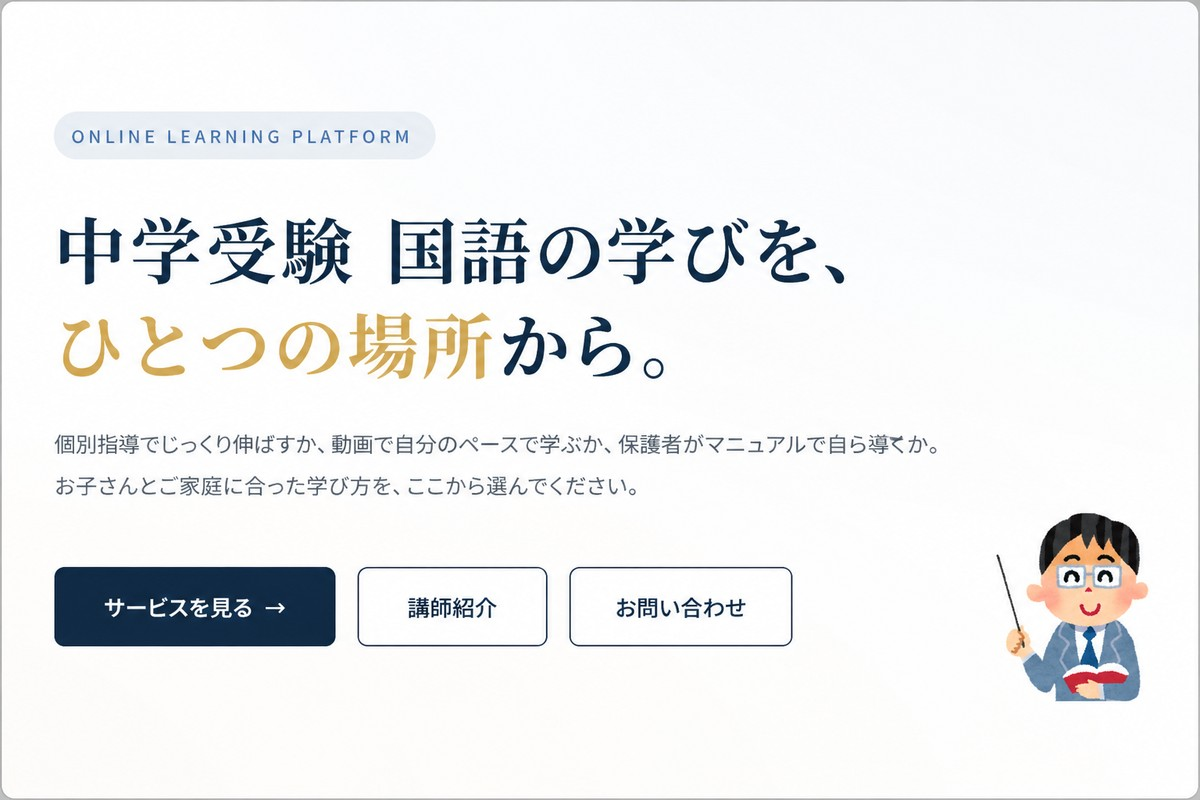
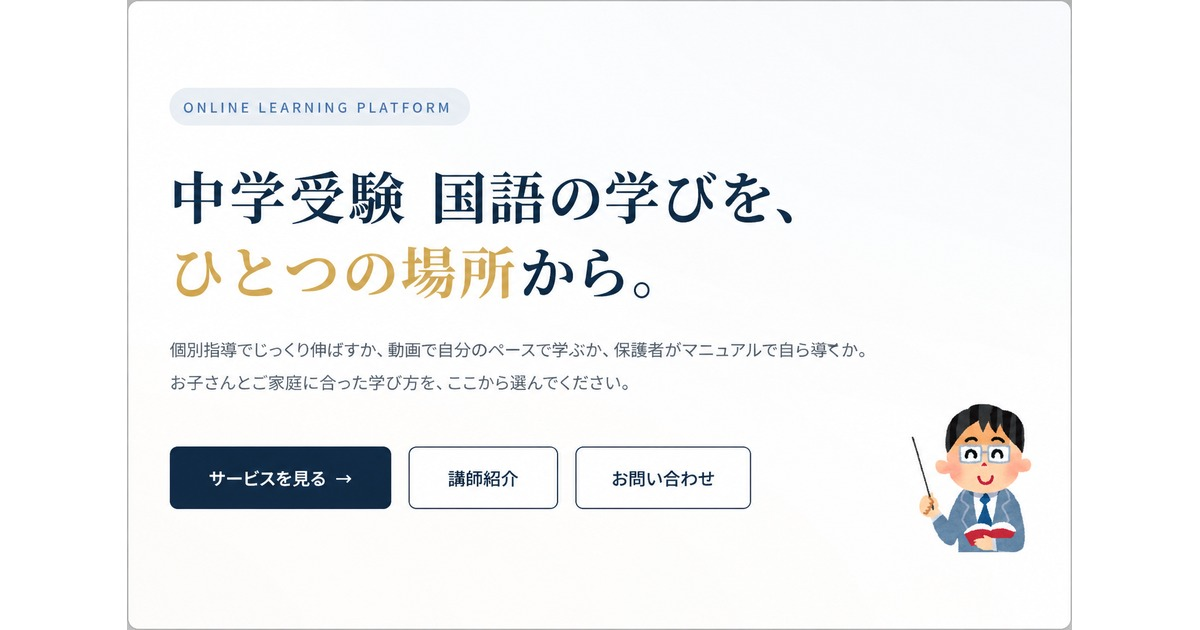
画像再アップロード

diff --git a/index.html b/index.html
@@ -18,9 +18,9 @@
 <meta property="og:locale" content="ja_JP" />
 <meta property="og:title" content="中学受験の国語｜オンライン家庭教師・動画授業・完全マニュアル" />
 <meta property="og:description" content="元 早稲田アカデミー専任講師による中学受験 国語のオンライン学習プラットフォーム。完全個別指導／動画授業（Fincs）／保護者向け完全マニュアル（4.8万字）／AIチャット／無料の漢字学習サイトまで。" />
-<meta property="og:image" content="https://chuzyukokugo.vercel.app/images/ogp.jpg?v=2" />
+<meta property="og:image" content="https://chuzyukokugo.vercel.app/images/ogp.jpg?v=3" />
 <meta property="og:image:width" content="1200" />
-<meta property="og:image:height" content="800" />
+<meta property="og:image:height" content="630" />
 <meta property="og:image:alt" content="中学受験の国語｜オンライン家庭教師" />
 
 <!-- Twitter Card -->
@@ -29,7 +29,7 @@
 <meta name="twitter:creator" content="@chugakuzyuken" />
 <meta name="twitter:title" content="中学受験の国語｜オンライン家庭教師・動画授業・完全マニュアル" />
 <meta name="twitter:description" content="元 早稲田アカデミー専任講師による中学受験 国語のオンライン学習プラットフォーム。完全個別指導／動画授業／保護者向け完全マニュアル（4.8万字）／AIチャット／無料の漢字学習まで、ひとつの場所から。" />
-<meta name="twitter:image" content="https://chuzyukokugo.vercel.app/images/ogp.jpg?v=2" />
+<meta name="twitter:image" content="https://chuzyukokugo.vercel.app/images/ogp.jpg?v=3" />
 <link rel="preconnect" href="https://fonts.googleapis.com">
 <link rel="preconnect" href="https://fonts.gstatic.com" crossorigin>
 <link href="https://fonts.googleapis.com/css2?family=Noto+Sans+JP:wght@400;500;600;700&family=Noto+Serif+JP:wght@600;700&display=swap" rel="stylesheet">

diff --git a/teacher.html b/teacher.html
@@ -18,9 +18,9 @@
 <meta property="og:locale" content="ja_JP" />
 <meta property="og:title" content="講師紹介｜中学受験の国語" />
 <meta property="og:description" content="元 早稲田アカデミー専任講師（国語・社会）。中学受験 国語のオンライン家庭教師の講師プロフィール。" />
-<meta property="og:image" content="https://chuzyukokugo.vercel.app/images/ogp.jpg?v=2" />
+<meta property="og:image" content="https://chuzyukokugo.vercel.app/images/ogp.jpg?v=3" />
 <meta property="og:image:width" content="1200" />
-<meta property="og:image:height" content="800" />
+<meta property="og:image:height" content="630" />
 <meta property="og:image:alt" content="中学受験の国語｜講師紹介" />
 
 <!-- Twitter Card -->
@@ -29,7 +29,7 @@
 <meta name="twitter:creator" content="@chugakuzyuken" />
 <meta name="twitter:title" content="講師紹介｜中学受験の国語" />
 <meta name="twitter:description" content="元 早稲田アカデミー専任講師による中学受験 国語のオンライン家庭教師。経歴・指導方針をご紹介します。" />
-<meta name="twitter:image" content="https://chuzyukokugo.vercel.app/images/ogp.jpg?v=2" />
+<meta name="twitter:image" content="https://chuzyukokugo.vercel.app/images/ogp.jpg?v=3" />
 <link rel="preconnect" href="https://fonts.googleapis.com">
 <link rel="preconnect" href="https://fonts.gstatic.com" crossorigin>
 <link href="https://fonts.googleapis.com/css2?family=Noto+Sans+JP:wght@400;500;600;700&family=Noto+Serif+JP:wght@600;700&display=swap" rel="stylesheet">
